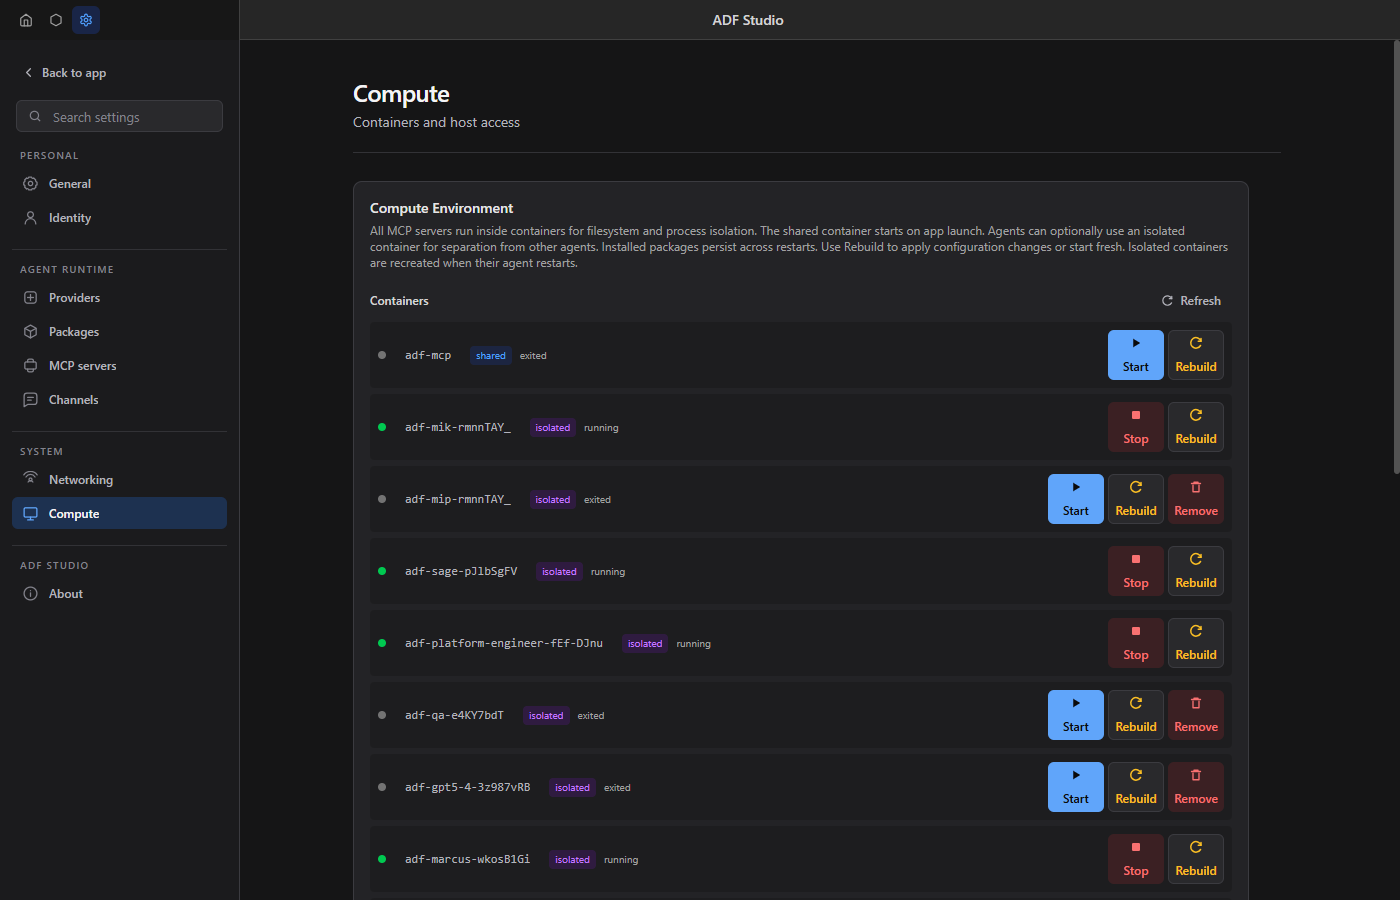
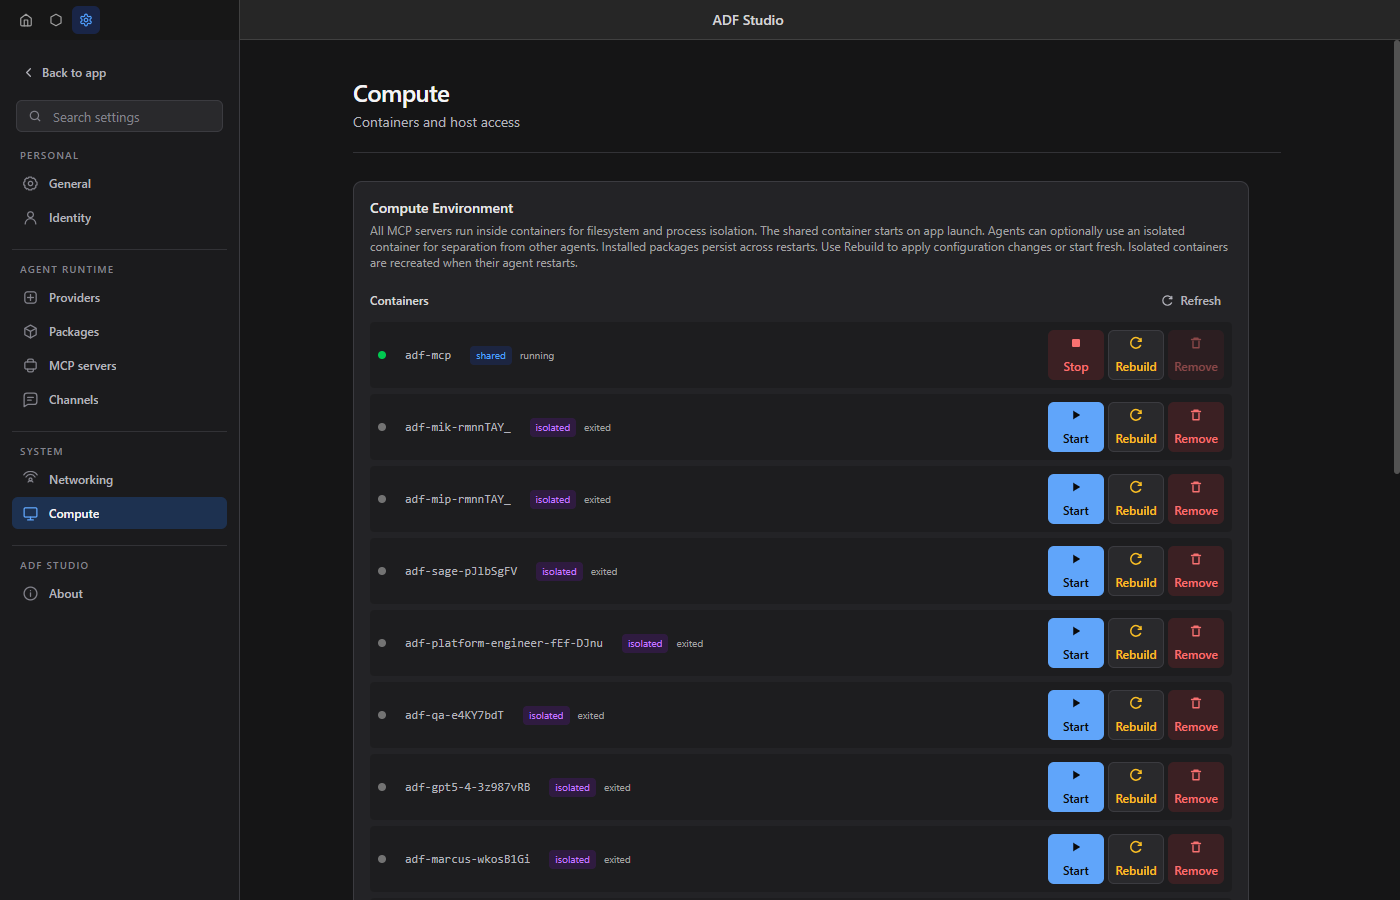
Align Compute container actions

diff --git a/src/renderer/components/settings/SettingsPage.tsx b/src/renderer/components/settings/SettingsPage.tsx
@@ -2531,25 +2531,27 @@ function ComputeTab({
                     </svg>
                     Rebuild
                   </Button>
-                  {!isShared && !c.running && (
-                    <Button
-                      onClick={async () => {
-                        setSetupBusy(true)
-                        try { await window.adfApi?.computeDestroyContainer?.({ name: c.name }) }
-                        finally { setSetupBusy(false); refreshAll() }
-                      }}
-                      disabled={setupBusy}
-                      variant="danger"
-                      size="compact"
-                      className="h-auto min-h-12 flex-col gap-0.5 px-1 py-1 text-[10px]"
-                      title="Remove this isolated container permanently"
-                    >
-                      <svg width="16" height="16" viewBox="0 0 16 16" fill="none" aria-hidden="true">
-                        <path d="M3.5 4.5h9M6 4.5V3.25h4V4.5M5 6.25v6.5h6v-6.5" stroke="currentColor" strokeWidth="1.35" strokeLinecap="round" strokeLinejoin="round" />
-                      </svg>
-                      Remove
-                    </Button>
-                  )}
+                  <Button
+                    onClick={async () => {
+                      setSetupBusy(true)
+                      try { await window.adfApi?.computeDestroyContainer?.({ name: c.name }) }
+                      finally { setSetupBusy(false); refreshAll() }
+                    }}
+                    disabled={setupBusy || isShared || c.running}
+                    variant="danger"
+                    size="compact"
+                    className="h-auto min-h-12 flex-col gap-0.5 px-1 py-1 text-[10px]"
+                    title={isShared
+                      ? 'The shared container is retained; use Rebuild to recreate it.'
+                      : c.running
+                        ? 'Stop this container before removing it.'
+                        : 'Remove this isolated container permanently'}
+                  >
+                    <svg width="16" height="16" viewBox="0 0 16 16" fill="none" aria-hidden="true">
+                      <path d="M3.5 4.5h9M6 4.5V3.25h4V4.5M5 6.25v6.5h6v-6.5" stroke="currentColor" strokeWidth="1.35" strokeLinecap="round" strokeLinejoin="round" />
+                    </svg>
+                    Remove
+                  </Button>
                 </div>
               </div>
             </React.Fragment>)